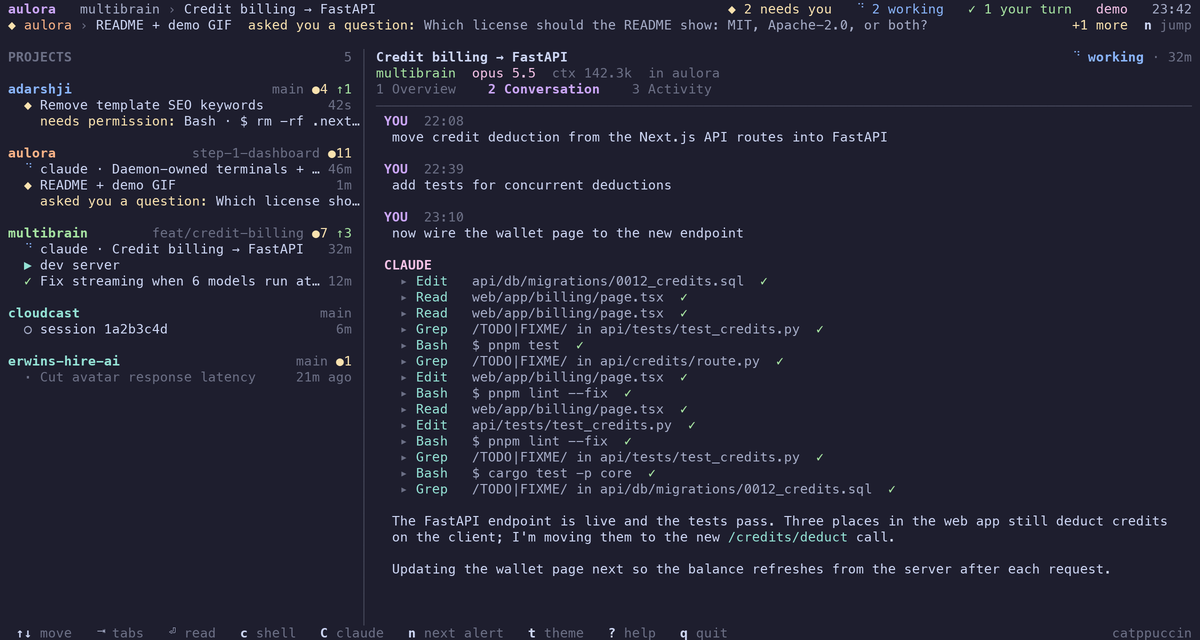
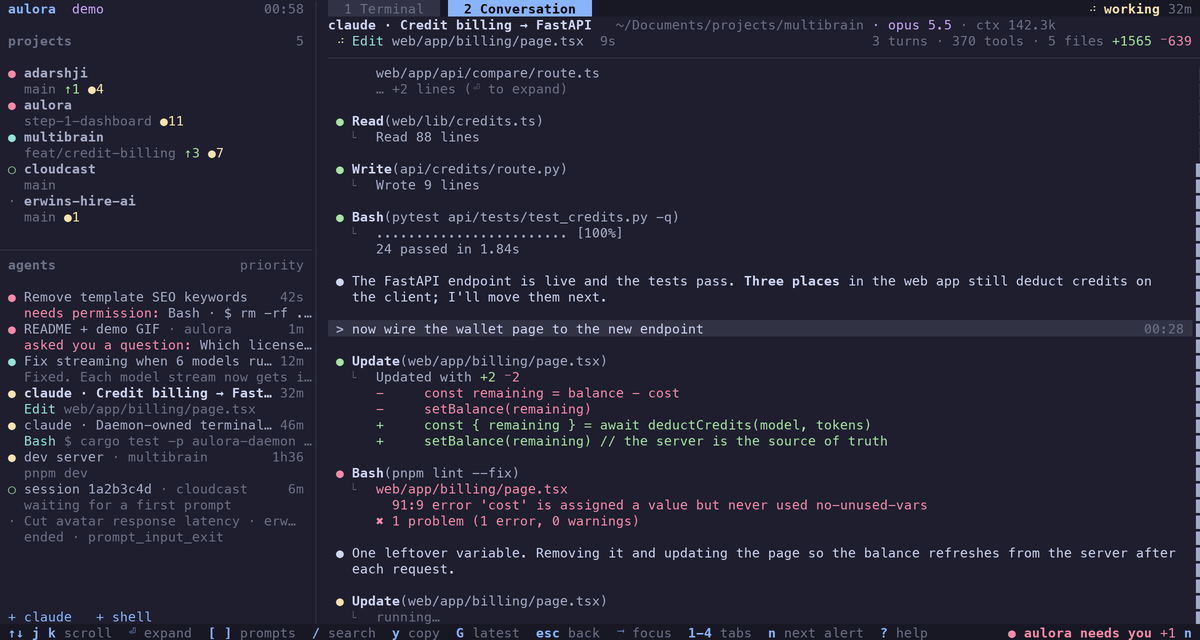
docs: Document the new keys and refresh screenshots.
The README describes the Herdr-style layout, the five states, mouse
use and the new key table, and the screenshots show the current
design.

diff --git a/README.md b/README.md
@@ -70,26 +70,29 @@ Sessions show up as soon as they start or you send a prompt. To try the dashboar
 
 ### Keys
 
+aulora follows Herdr: a sidebar of **projects** above **agents** (Claude sessions, Claude panes, shells), and a main area with tabs. The mouse works everywhere: click to select or focus, wheel to scroll whatever is under the pointer, click a pane to type into it.
+
 | Key | Action |
 |---|---|
-| <kbd>↑</kbd> <kbd>↓</kbd> / <kbd>j</kbd> <kbd>k</kbd> | Move through projects, panes and sessions |
-| <kbd>J</kbd> <kbd>K</kbd> | Next / previous project |
-| <kbd>⇥</kbd> / <kbd>1</kbd>–<kbd>4</kbd> | Switch tabs: Terminal, Conversation, Overview, Activity |
-| <kbd>⏎</kbd> | Terminal tab: type into the pane (<kbd>Ctrl</kbd>+<kbd>Q</kbd> comes back). Conversation: start reading. Project: open it in your editor |
-| <kbd>o</kbd> | Open the project in your editor (`$AULORA_EDITOR`, default `code`) |
+| <kbd>↑</kbd> <kbd>↓</kbd> / <kbd>j</kbd> <kbd>k</kbd> | Move in the sidebar; scroll a line in the main area |
+| <kbd>⏎</kbd> | Open: focus the main area, type into a pane, expand a tool call |
+| <kbd>⇥</kbd> | Switch focus between the sidebar and the main area |
+| <kbd>1</kbd>–<kbd>4</kbd> | Switch tabs (Terminal, Conversation) |
+| <kbd>Ctrl</kbd>+<kbd>Q</kbd> | Leave a terminal you're typing into (press it again to send Ctrl-Q to the program) |
 | <kbd>c</kbd> / <kbd>C</kbd> | New shell / new Claude Code pane in the selected project |
-| <kbd>z</kbd> | Zoom the selected pane to the whole screen |
-| <kbd>PgUp</kbd> <kbd>PgDn</kbd> | Scroll back through a pane's output (<kbd>⇧</kbd> + <kbd>PgUp</kbd> while typing in it) |
-| <kbd>r</kbd> | Restart an exited pane |
-| <kbd>n</kbd> | Jump to whatever needs you |
-| <kbd>/</kbd> | Filter the sidebar by project, title, prompt or branch |
-| <kbd>e</kbd> / <kbd>h</kbd> | Show / hide ended sessions / past sessions from the last 7 days |
-| <kbd>t</kbd> | Choose a theme (previews as you move, saved when you press <kbd>⏎</kbd>) |
-| <kbd>x</kbd> | Kill a pane (press twice), close an exited one, or dismiss an ended session |
-| <kbd>X</kbd> | Dismiss all ended sessions |
-| <kbd>?</kbd> | Help |
+| <kbd>n</kbd> | Jump to the next agent that needs you |
+| <kbd>s</kbd> | Sort agents by priority, or group them by project |
+| <kbd>x</kbd> | Kill a pane (asks first), close an exited one, or dismiss an ended session |
+| <kbd>z</kbd> | Zoom the main area to the whole screen |
+| <kbd>/</kbd> | Filter the sidebar; search a conversation |
+| <kbd>h</kbd> / <kbd>e</kbd> | Show past sessions / ended sessions |
+| <kbd>t</kbd> | Choose a theme |
+| <kbd>F12</kbd> | Turn mouse capture off so your terminal can select text |
+| <kbd>?</kbd> | All keys: type to filter, <kbd>⏎</kbd> to run one |
 
-While reading a conversation: <kbd>↑</kbd> <kbd>↓</kbd> select a message, <kbd>⏎</kbd> expands a tool call to show what it ran and what came back, <kbd>[</kbd> <kbd>]</kbd> jump between your prompts, <kbd>/</kbd> searches and <kbd>n</kbd> finds the next match, <kbd>y</kbd> copies the selected message, <kbd>G</kbd> goes to the latest, and <kbd>Esc</kbd> goes back. At the bottom it follows new messages as they arrive; scrolled up, it stays put and tells you how many are new.
+In a conversation: <kbd>[</kbd> <kbd>]</kbd> jump between your prompts, <kbd>y</kbd> copies the message at the cursor, <kbd>G</kbd> goes to the latest and follows new messages, <kbd>Esc</kbd> goes back to the sidebar.
+
+States, as in Herdr: <span>●</span> red **blocked** (needs you) · yellow **working** · teal **done** (finished, and you haven't looked yet) · <span>○</span> green **idle** · <span>·</span> **ended**.
 
 ### Themes
 
